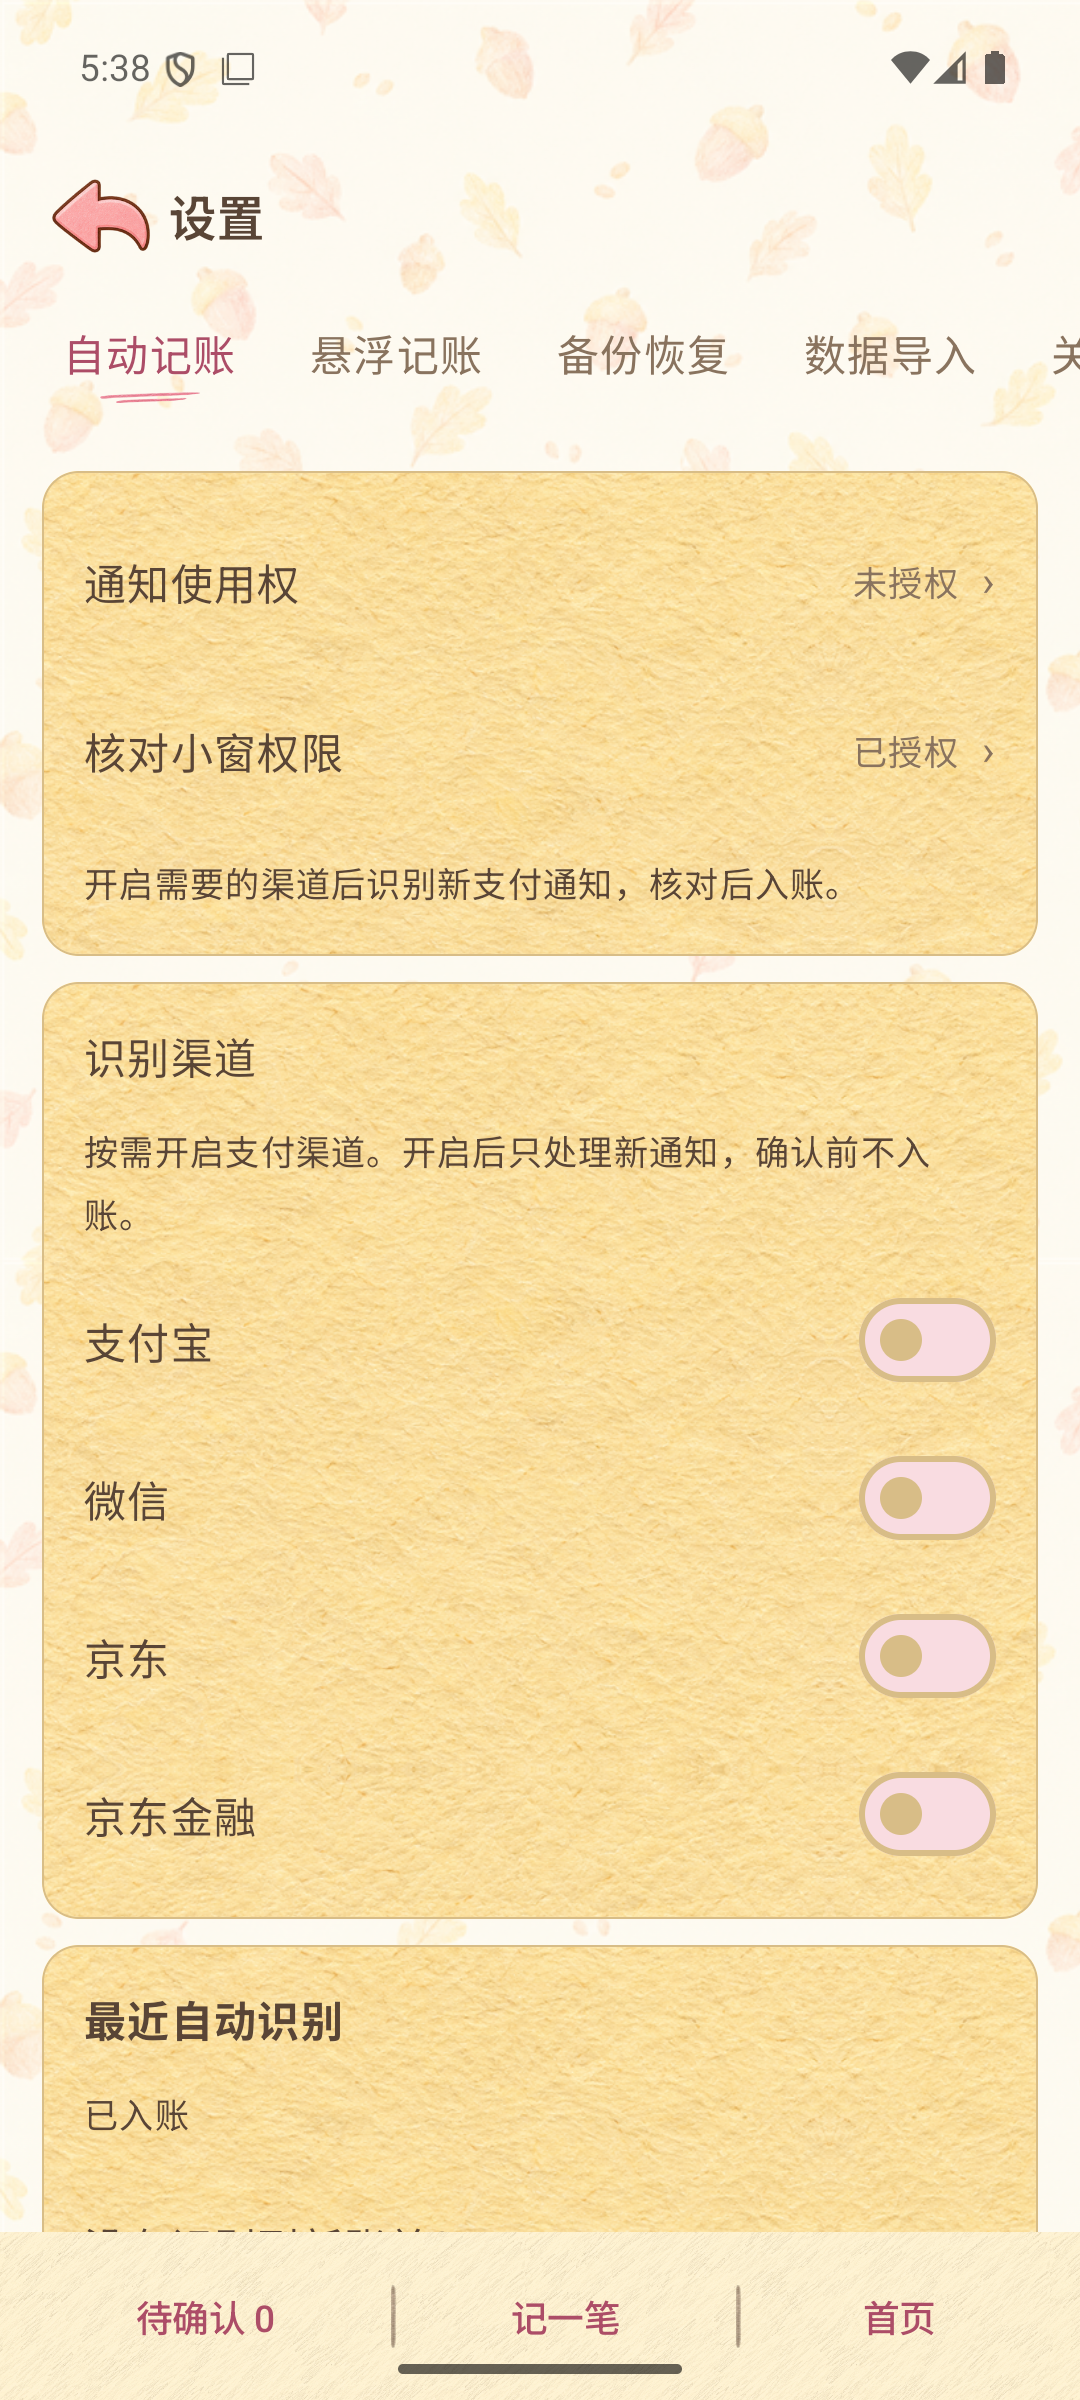
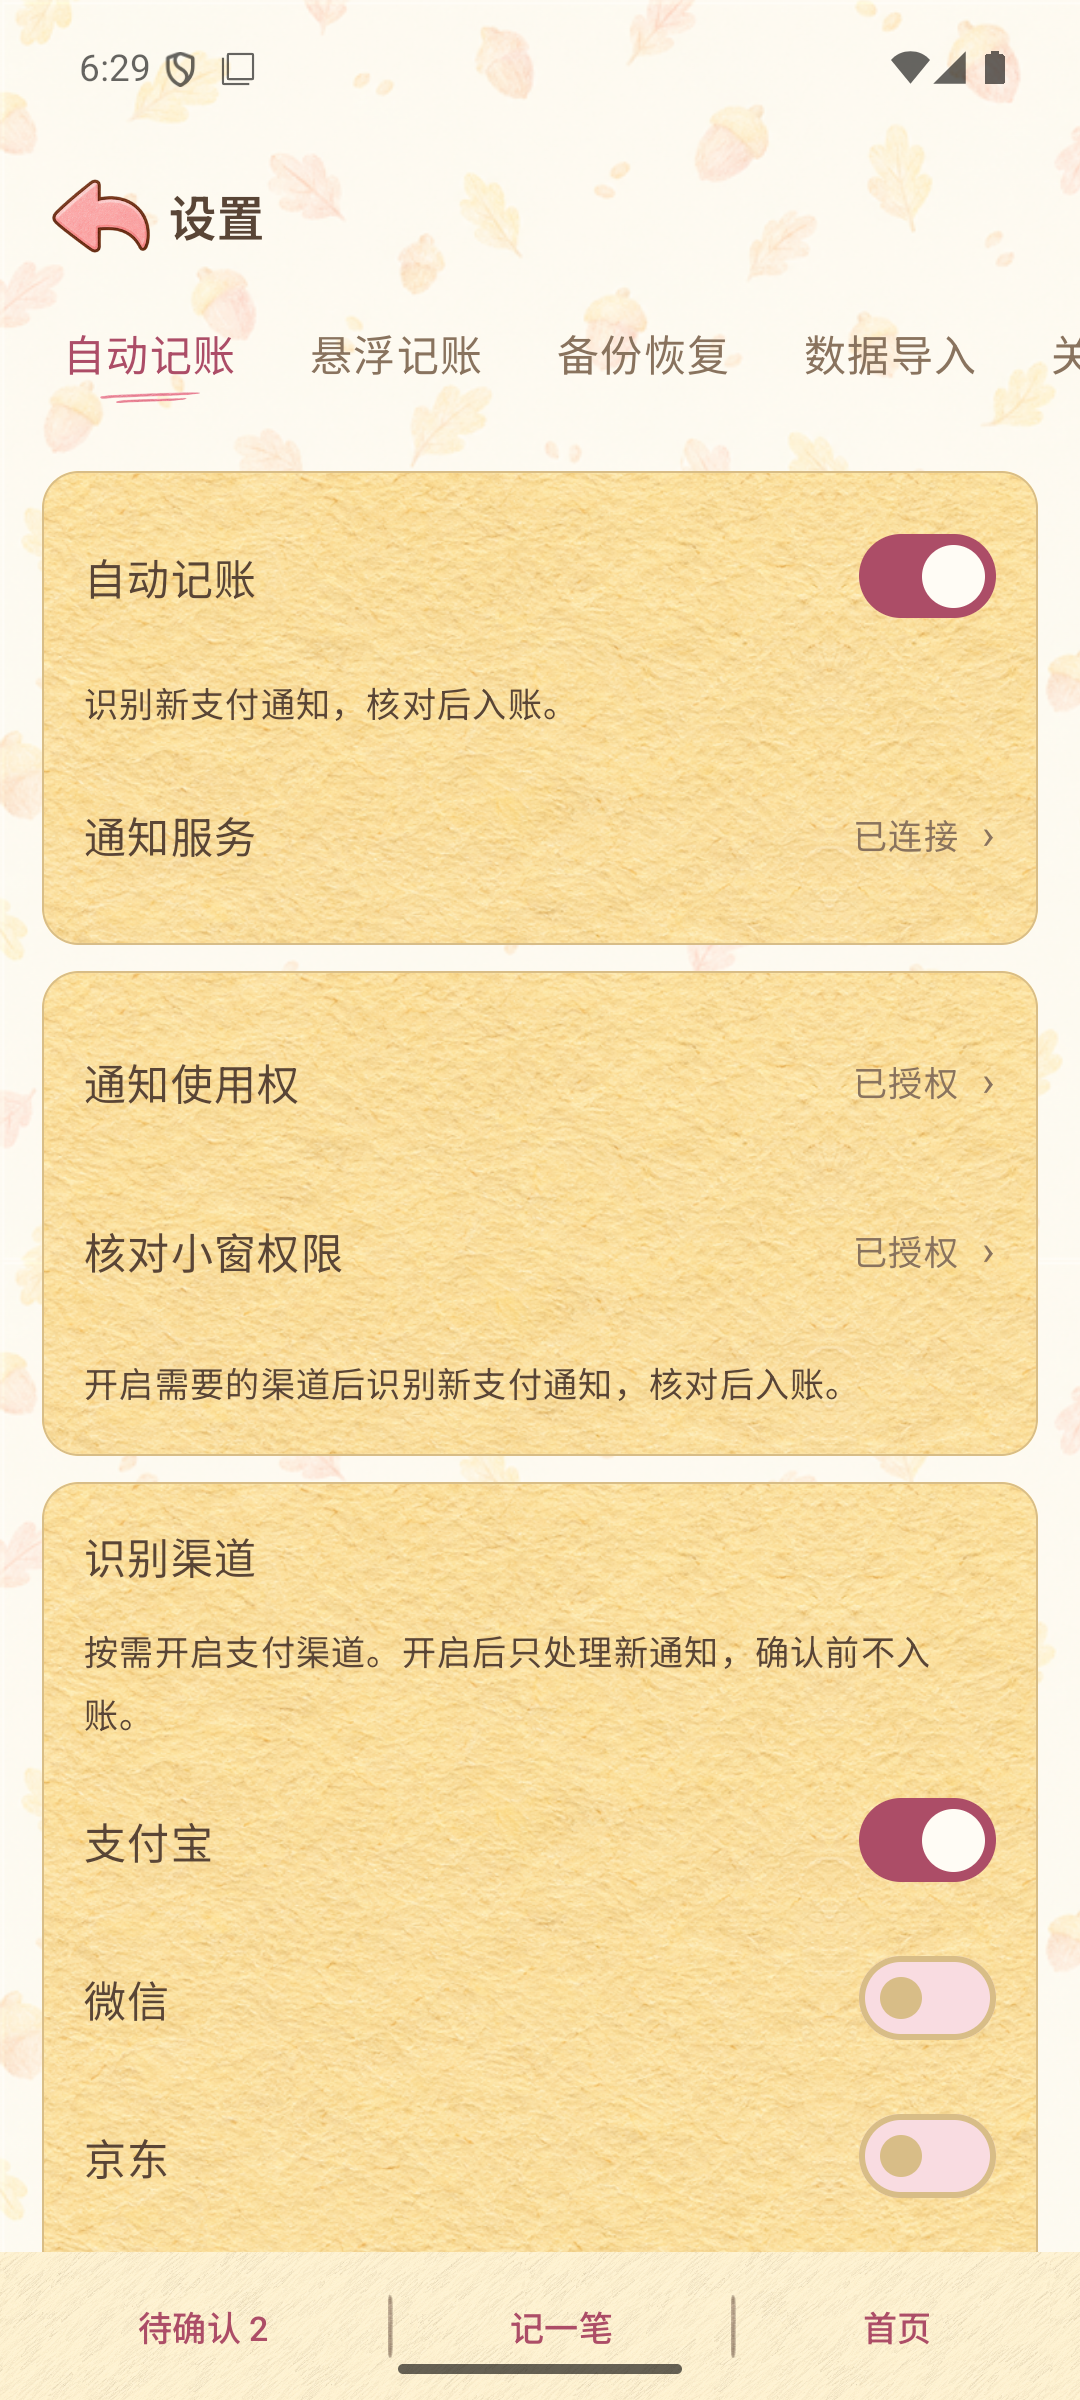
Release v0.2.17 notification controls and diagnostics

diff --git a/README.md b/README.md
@@ -7,7 +7,7 @@
   <a href="https://github.com/lyq-05/youyu-ledger/commits/main"><img alt="最后提交" src="https://img.shields.io/github/last-commit/lyq-05/youyu-ledger/main?label=%E6%9C%80%E5%90%8E%E6%8F%90%E4%BA%A4"></a>
   <img alt="平台 Android" src="https://img.shields.io/badge/%E5%B9%B3%E5%8F%B0-Android-3DDC84">
   <img alt="Android 8.0 及以上" src="https://img.shields.io/badge/Android-8.0%2B-3DDC84">
-  <a href="https://github.com/lyq-05/youyu-ledger/releases/download/v0.2.16/youyu-v0.2.16.apk"><img alt="安装包 125.7 MB" src="https://img.shields.io/badge/%E5%AE%89%E8%A3%85%E5%8C%85-125.7%20MB-orange"></a>
+  <a href="https://github.com/lyq-05/youyu-ledger/releases/download/v0.2.17/youyu-v0.2.17.apk"><img alt="安装包 127.0 MB" src="https://img.shields.io/badge/%E5%AE%89%E8%A3%85%E5%8C%85-127.0%20MB-orange"></a>
   <img alt="开发体验版" src="https://img.shields.io/badge/%E7%8A%B6%E6%80%81-%E5%BC%80%E5%8F%91%E4%BD%93%E9%AA%8C%E7%89%88-d6a34a">
   <img alt="不联网" src="https://img.shields.io/badge/%E7%BD%91%E7%BB%9C-%E4%B8%8D%E8%81%94%E7%BD%91-lightgrey">
 </p>
@@ -19,7 +19,7 @@
 
 Android 本地记账应用：手动入账、通知识别、图片补记与主动悬浮识别，共用“先核对、再入账”的流程。本仓库提供安装包与说明，暂不公开源码。
 
-> 当前版本 **v0.2.16 · 设置分类与首页细节**：六类顶部导航、字号与备注策略，首页透明标识和彩铅齿轮，书页高光修正。详见 [本次发布说明](docs/RELEASE_v0.2.16.md)。
+> 当前版本 **v0.2.17 · 自动记账开关与通知诊断**：总开关、服务连接状态与重连，补充通知正文读取，自动与悬浮诊断分离，底部导航更紧凑。详见 [本次发布说明](docs/RELEASE_v0.2.17.md)。
 
 ---
 
@@ -27,7 +27,7 @@ Android 本地记账应用：手动入账、通知识别、图片补记与主动
 
 | 平台 | 安装包 | 大小 | 说明 |
 | --- | --- | --- | --- |
-| Android 8.0+ | **[⬇ youyu-v0.2.16.apk](https://github.com/lyq-05/youyu-ledger/releases/download/v0.2.16/youyu-v0.2.16.apk)** | 125.7 MB | 点击直接下载，无需 root |
+| Android 8.0+ | **[⬇ youyu-v0.2.17.apk](https://github.com/lyq-05/youyu-ledger/releases/download/v0.2.17/youyu-v0.2.17.apk)** | 127.0 MB | 点击直接下载，无需 root |
 
 [查看 Releases 与历史附件](https://github.com/lyq-05/youyu-ledger/releases)。旧版说明尽量保留，没有可用附件的版本不提供下载链接。
 
@@ -53,7 +53,7 @@ Android 本地记账应用：手动入账、通知识别、图片补记与主动
 | 功能 | 说明 |
 | --- | --- |
 | 日常入账 | 选择账本、收支类型、分类与金额，账户可选 |
-| 自动识别 | 按渠道开启通知识别；结果先进入待核对流程 |
+| 自动识别 | 总开关与渠道分别控制；查看服务连接及最近接收结果，先核对再入账 |
 | 历史补记 | 主动点击悬浮入口读取账单页，或从图片补记 |
 | 流水与统计 | 月、年和自选日期统计，账户筛选与分类预算 |
 | 账户与资金 | 转账、还款与退款；退款按退款日冲减支出 |
@@ -89,6 +89,7 @@ Android 本地记账应用：手动入账、通知识别、图片补记与主动
 
 | 版本 | 主题 |
 | --- | --- |
+| [v0.2.17](docs/RELEASE_v0.2.17.md) | 自动记账总开关、通知诊断与紧凑导航 |
 | [v0.2.16](docs/RELEASE_v0.2.16.md) | 设置分类、字号与首页细节 |
 | [v0.2.15](docs/RELEASE_v0.2.15.md) | 微信转账收入、弹窗页码与备注置信度 |
 | [v0.2.14](docs/RELEASE_v0.2.14.md) | 微信账单容错、空白手动面板与首页图标 |

diff --git a/docs/RELEASE_v0.2.17.md b/docs/RELEASE_v0.2.17.md
@@ -1,0 +1,24 @@
+# 有余记账 v0.2.17
+
+> 自动记账开关、通知诊断与紧凑导航
+
+**开发体验版** · Android 8.0+ · 同包名、同签名，可覆盖安装。
+
+[下载 youyu-v0.2.17.apk](https://github.com/lyq-05/youyu-ledger/releases/download/v0.2.17/youyu-v0.2.17.apk) · 127.0 MB
+
+## 本次更新
+
+- 新增自动记账总开关。关闭后不处理新支付通知，保留渠道选择，不影响悬浮记账；已有渠道开启的旧安装升级后保持开启，新安装默认关闭。
+- 分开展示通知使用权与通知服务连接状态，支持点击请求重连；服务断开时尝试重连。
+- 支持从通知的折叠、展开和分行正文读取单笔账单。金额冲突、分组摘要及不明确消息仍不生成账目。
+- 修复悬浮识别结果覆盖“最近自动识别”的问题。自动诊断显示接收时间、正文长度、校验与小窗结果，不保存通知原文。
+- 文字底部导航缩小字号和留白；明细、统计、账户图标导航从 80dp 缩至 64dp，保留点击区域和彩铅底材。
+- 更新自动记账操作指南，说明总开关、连接状态及渠道配置。
+
+## 验证与限制
+
+23 项核心测试通过。独立指南安装使用虚构通知验证：正文读取、金额冲突与摘要拦截、开关迁移、状态隔离，以及真实回调函数到待确认存储、小窗显示和重复通知拦截的流程。实测权限授权后连接状态更新，并检查紧凑导航。
+
+用户设备的漏记根因尚未确认；本版补充正文读取、重连和诊断，不宣称已验证所有真机通知送达。自动记账处理新到达的通知；停留支付页或下拉通知栏不会触发读取，核对保存后才进入流水。无需重复真实付款测试。
+
+[上一版](https://github.com/lyq-05/youyu-ledger/releases/tag/v0.2.16)

diff --git a/CHANGELOG.md b/CHANGELOG.md
@@ -2,6 +2,18 @@
 
 按现存开发记录整理。历史预览构建并非每次都变更版本号；无法核实的版本号与日期不补造。
 
+## v0.2.17 — 自动记账开关与通知诊断
+
+- 新增总开关、服务连接状态与重连，保留旧安装已开启的渠道。
+- 补充折叠、展开和分行通知正文读取，保留歧义拦截。
+- 修复自动与悬浮识别状态混用；诊断区分收到通知、校验和小窗显示结果。
+- 底部导航紧凑化，更新自动记账指南；核心与虚构通知流程测试通过。
+- 实机漏记原因仍待新版诊断确认，不宣称全面修复。
+
+[详细说明](docs/RELEASE_v0.2.17.md)
+
+---
+
 ## v0.2.16 — 设置分类与首页细节
 
 - 六类顶部导航，分开自动/悬浮识别权限与状态。
